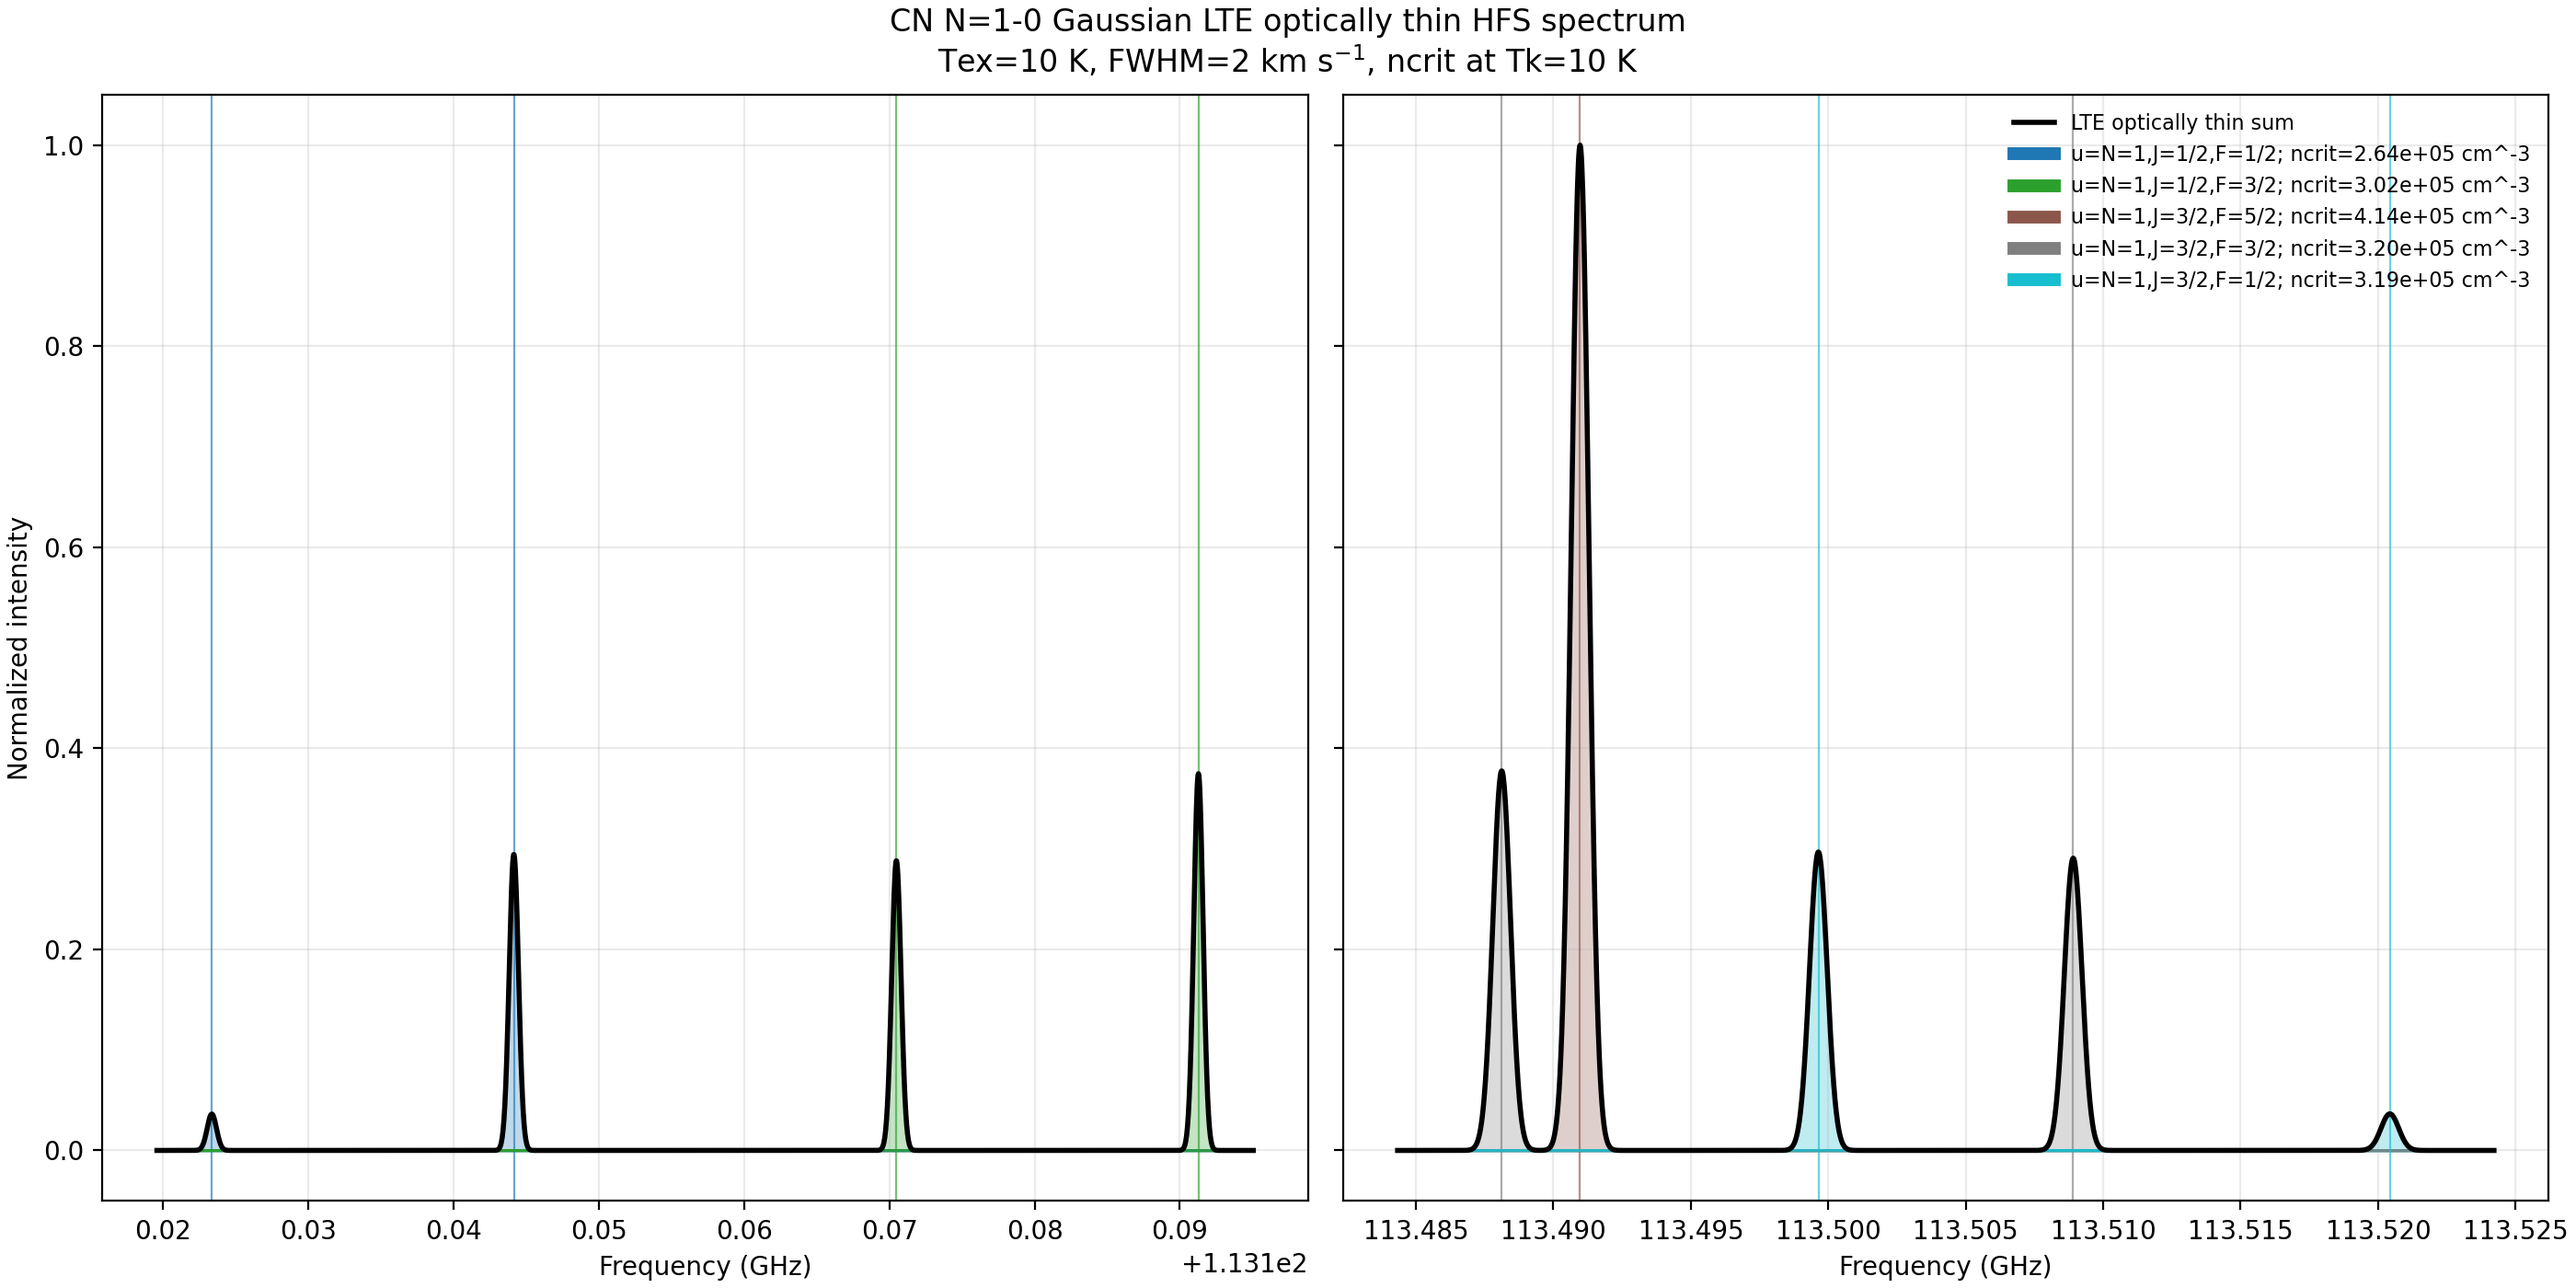
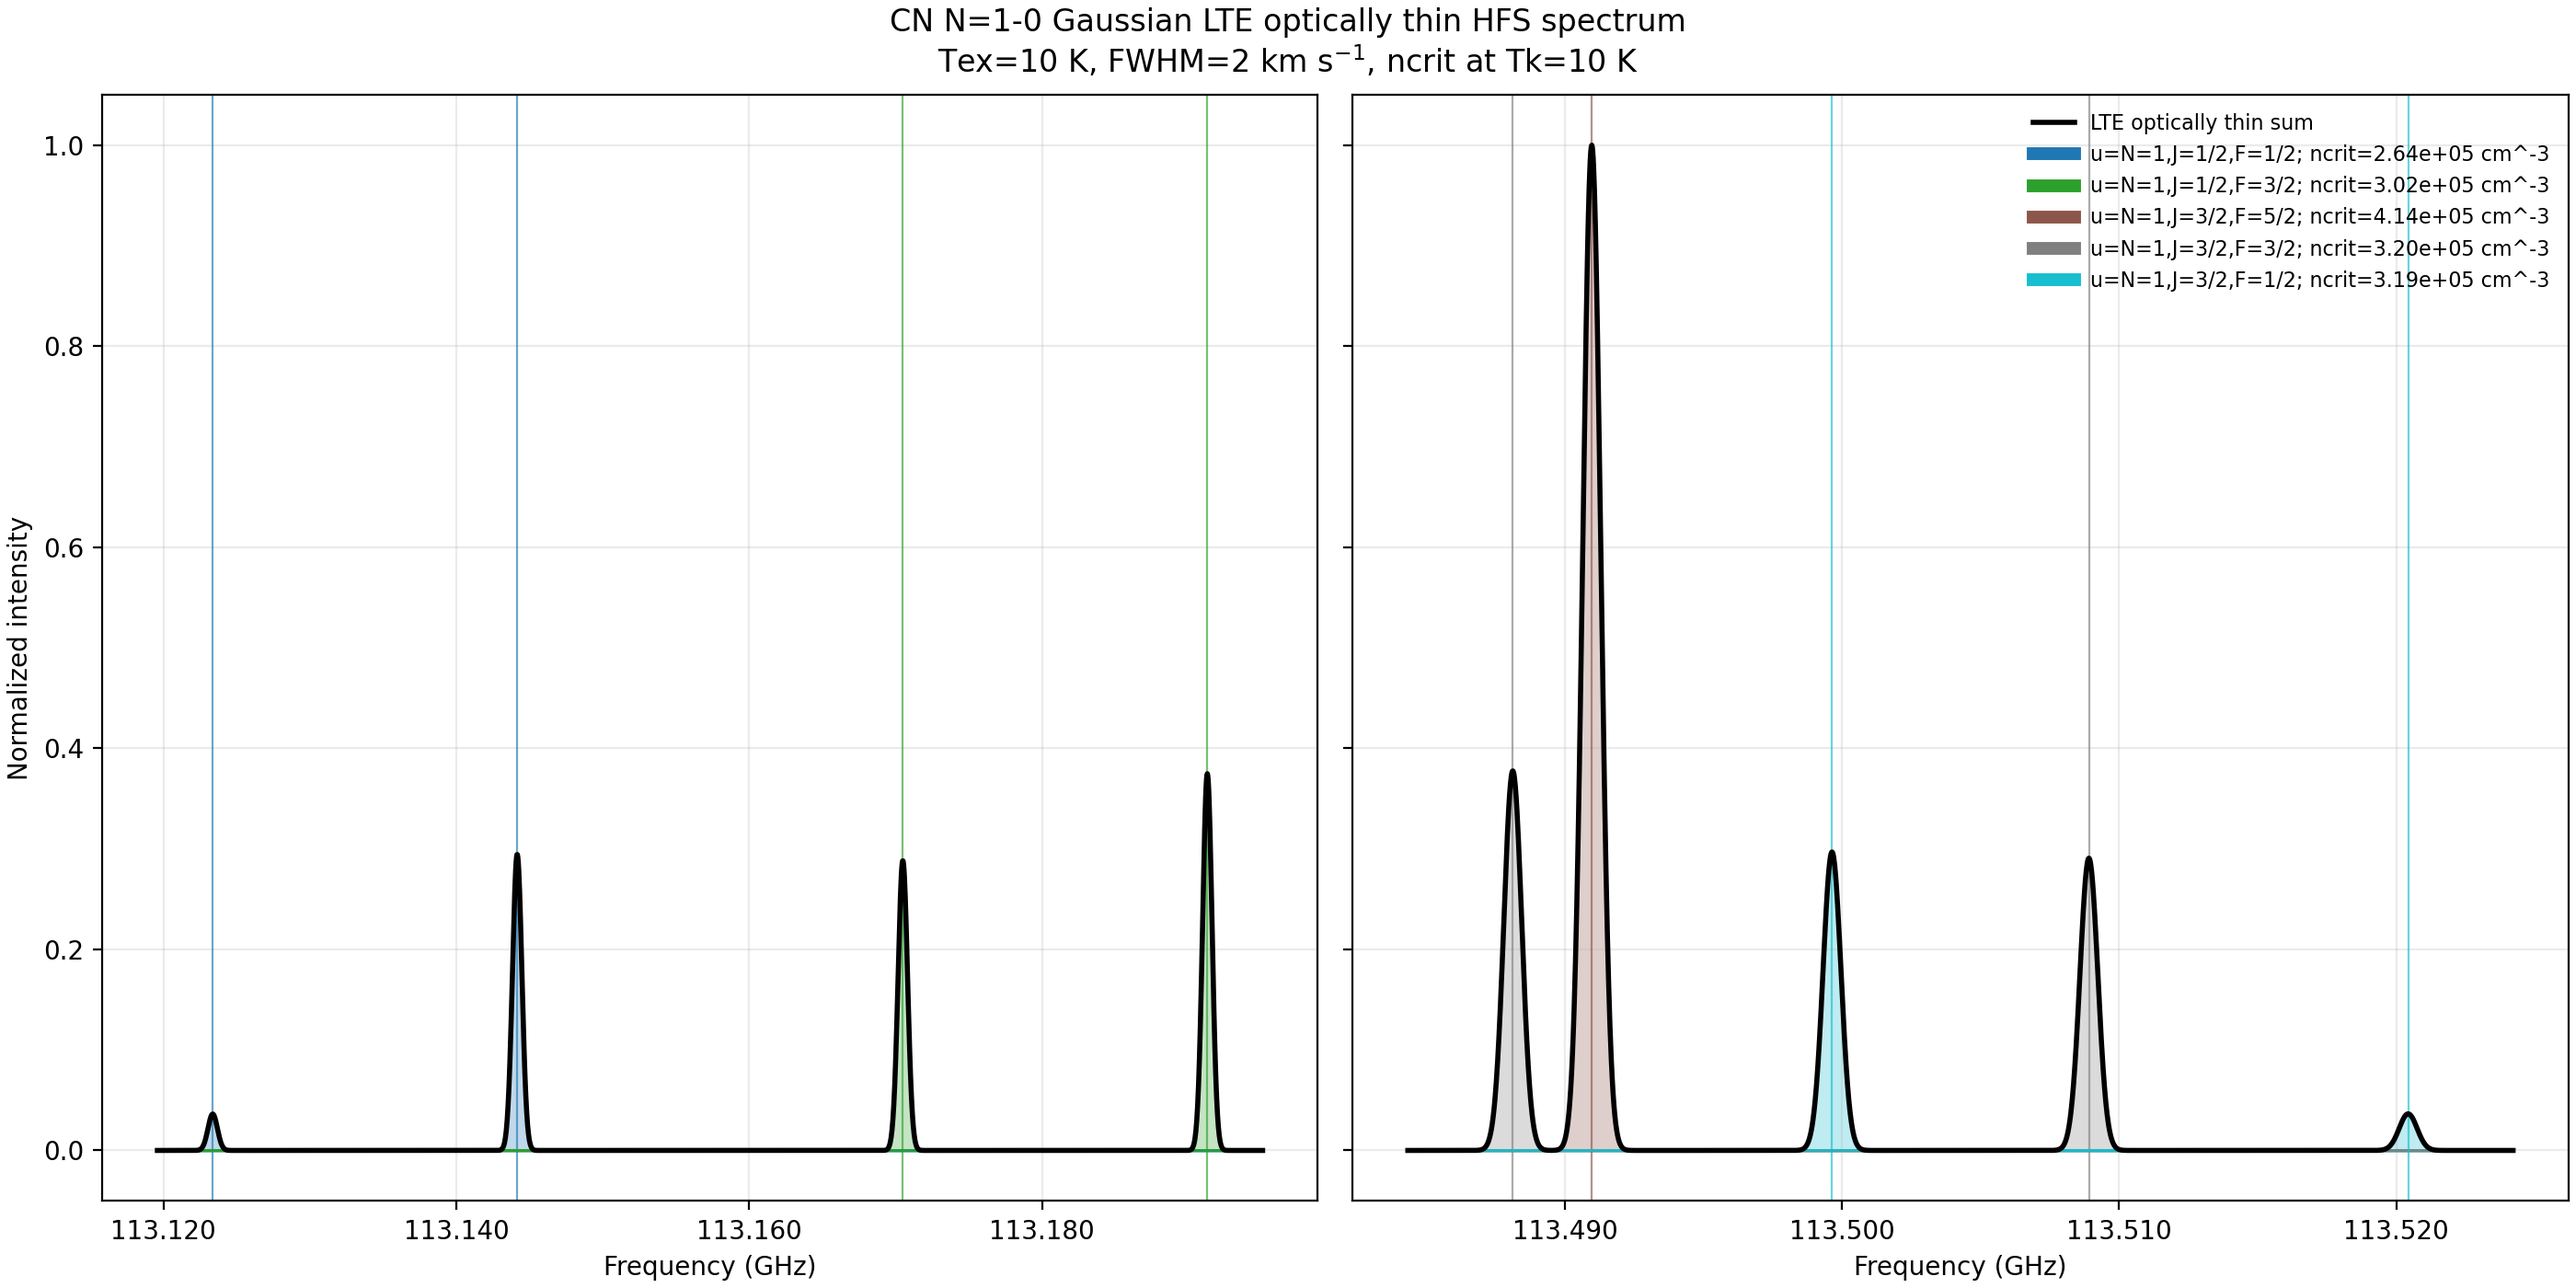
1. update CN hfs

diff --git a/cn_hfs_toy.py b/cn_hfs_toy.py
@@ -92,7 +92,7 @@ def _short_level_label(level):
     return level.label
 
 
-def cn_n1_0_demo():
+def cn_hfs_demo():
     molecule = load_hfs_molecule(CN_DATA, "CN")
     level_rows, _ = compute_hfs_ncrit(
         molecule,
@@ -102,16 +102,25 @@ def cn_n1_0_demo():
     )
     ncrit_by_upper = {row["upper_id"]: row for row in level_rows}
 
-    # Select the CN N=1 -> 0 hyperfine components and sort them by frequency.
+    for upper_N in (1, 2, 3):
+        _cn_transition_demo(upper_N, upper_N - 1, molecule, ncrit_by_upper)
+
+
+def _cn_transition_demo(upper_N, lower_N, molecule, ncrit_by_upper):
+    # Select one CN rotational ladder's hyperfine components and sort them by frequency.
     transitions = [
         transition
         for transition in molecule.radiative
-        if molecule.levels[transition.upper_id].qn.get("N") == 1
-        and molecule.levels[transition.lower_id].qn.get("N") == 0
+        if molecule.levels[transition.upper_id].qn.get("N") == upper_N
+        and molecule.levels[transition.lower_id].qn.get("N") == lower_N
     ]
     transitions.sort(key=lambda item: item.frequency_GHz)
 
-    print(f"\nCN N=1-0 HFS components at Tk={CN_DEMO_TK:g} K, partner={CN_DEMO_PARTNER}")
+    if not transitions:
+        print(f"\nCN N={upper_N}-{lower_N}: no matching HFS components in this file.")
+        return
+
+    print(f"\nCN N={upper_N}-{lower_N} HFS components at Tk={CN_DEMO_TK:g} K, partner={CN_DEMO_PARTNER}")
     print("freq_GHz  upper_id  lower_id  upper_level                  lower_level                  ncrit_cm-3")
     for transition in transitions:
         upper = molecule.levels[transition.upper_id]
@@ -126,11 +135,13 @@ def cn_n1_0_demo():
             f"{ncrit:10.3e}"
         )
 
-    _plot_cn_n1_0(transitions, molecule, ncrit_by_upper)
-    _plot_cn_n1_0_lte_spectrum(transitions, molecule, ncrit_by_upper)
+    stem = f"cn_n{upper_N}_{lower_N}"
+    title = f"CN N={upper_N}-{lower_N}"
+    _plot_cn_ncrit_hist(title, f"{stem}_ncrit_hist.png", transitions, molecule, ncrit_by_upper)
+    _plot_cn_lte_spectrum(title, f"{stem}_lte_spectrum_ncrit.png", transitions, molecule, ncrit_by_upper)
 
 
-def _plot_cn_n1_0(transitions, molecule, ncrit_by_upper):
+def _plot_cn_ncrit_hist(title, filename, transitions, molecule, ncrit_by_upper):
     cache_dir = BASE_DIR / ".plot_cache"
     cache_dir.mkdir(parents=True, exist_ok=True)
     os.environ.setdefault("MPLCONFIGDIR", str(cache_dir / "matplotlib"))
@@ -158,18 +169,18 @@ def _plot_cn_n1_0(transitions, molecule, ncrit_by_upper):
     bars = ax.bar(x, values, color="#4C78A8", edgecolor="#243B53", linewidth=0.7)
     ax.set_yscale("log")
     ax.set_ylabel(r"$n_{\rm crit}$ (cm$^{-3}$)")
-    ax.set_xlabel("CN N=1-0 hyperfine transition, sorted by frequency")
-    ax.set_title(f"CN N=1-0 HFS level-based critical densities at Tk={CN_DEMO_TK:g} K ({CN_DEMO_PARTNER})")
+    ax.set_xlabel(f"{title} hyperfine transition, sorted by frequency")
+    ax.set_title(f"{title} HFS level-based critical densities at Tk={CN_DEMO_TK:g} K ({CN_DEMO_PARTNER})")
     ax.set_xticks(x)
     ax.set_xticklabels(labels, rotation=65, ha="right", fontsize=8)
     ax.grid(axis="y", which="both", alpha=0.25)
     for bar, value in zip(bars, values):
         ax.text(bar.get_x() + bar.get_width() / 2, value * 1.05, f"{value:.1e}", ha="center", va="bottom", fontsize=8, rotation=90)
     fig.tight_layout()
-    out_path = OUTPUT_DIR / "cn_n1_0_ncrit_hist.png"
+    out_path = OUTPUT_DIR / filename
     fig.savefig(out_path, dpi=200)
     plt.close(fig)
-    print(f"\nSaved CN N=1-0 ncrit histogram: {out_path}")
+    print(f"\nSaved {title} ncrit histogram: {out_path}")
 
 
 def _lte_component_weight(transition, molecule):
@@ -193,7 +204,7 @@ def _split_by_largest_frequency_gap(transitions):
     return [transitions]
 
 
-def _plot_cn_n1_0_lte_spectrum(transitions, molecule, ncrit_by_upper):
+def _plot_cn_lte_spectrum(title, filename, transitions, molecule, ncrit_by_upper):
     if not transitions:
         return
     cache_dir = BASE_DIR / ".plot_cache"
@@ -204,6 +215,7 @@ def _plot_cn_n1_0_lte_spectrum(transitions, molecule, ncrit_by_upper):
 
     matplotlib.use("Agg")
     import matplotlib.pyplot as plt
+    from matplotlib.ticker import FormatStrFormatter, MaxNLocator
 
     OUTPUT_DIR.mkdir(parents=True, exist_ok=True)
     weights = np.array([_lte_component_weight(transition, molecule) for transition in transitions])
@@ -241,6 +253,8 @@ def _plot_cn_n1_0_lte_spectrum(transitions, molecule, ncrit_by_upper):
             ax.axvline(center, color=color, lw=0.8, alpha=0.65)
         ax.plot(frequency, total / norm, color="black", lw=2.0, label="LTE optically thin sum")
         ax.set_xlabel("Frequency (GHz)")
+        ax.xaxis.set_major_locator(MaxNLocator(nbins=5))
+        ax.xaxis.set_major_formatter(FormatStrFormatter("%.3f"))
         ax.grid(alpha=0.25)
 
     handles = [plt.Line2D([0], [0], color="black", lw=2.0, label="LTE optically thin sum")]
@@ -259,17 +273,17 @@ def _plot_cn_n1_0_lte_spectrum(transitions, molecule, ncrit_by_upper):
     axes[-1].legend(handles=handles, fontsize=8, loc="upper right", frameon=False)
     axes[0].set_ylabel("Normalized intensity")
     fig.suptitle(
-        f"CN N=1-0 Gaussian LTE optically thin HFS spectrum\n"
+        f"{title} Gaussian LTE optically thin HFS spectrum\n"
         f"Tex={LTE_TEX:g} K, FWHM={GAUSSIAN_FWHM_KMS:g} km s$^{{-1}}$, ncrit at Tk={CN_DEMO_TK:g} K"
     )
-    out_path = OUTPUT_DIR / "cn_n1_0_lte_spectrum_ncrit.png"
+    out_path = OUTPUT_DIR / filename
     fig.savefig(out_path, dpi=200)
     plt.close(fig)
-    print(f"\nSaved CN N=1-0 LTE HFS spectrum: {out_path}")
+    print(f"\nSaved {title} LTE HFS spectrum: {out_path}")
 
 
 if __name__ == "__main__":
     test_branching_and_collision_sums()
     test_detailed_balance_reconstructs_upward_rate()
-    cn_n1_0_demo()
+    cn_hfs_demo()
     print("toy HFS tests passed")

diff --git a/critical_density.py b/critical_density.py
@@ -243,6 +243,17 @@ def _transition_from_request(data, j_low=None, transition_index=None, upper=None
     return _transition_from_request(data, upper=legacy_upper, lower=legacy_lower)  # Resolve the legacy simple-rotor transition.
 
 
+def _clean_level_label(level):  # Return a compact quantum-number label for verbose reports.
+    label = level.label.strip()  # Remove padding spaces from LAMDA labels such as HCN " 01 ".
+    return label if label else f"level {level.index}"  # Fall back to the level number if the file label is empty.
+
+
+def _transition_label(data, transition):  # Build an unambiguous transition description for users.
+    upper_label = _clean_level_label(data.levels[transition.upper])  # Read the upper level quantum label.
+    lower_label = _clean_level_label(data.levels[transition.lower])  # Read the lower level quantum label.
+    return f"{upper_label}->{lower_label} (LAMDA levels {transition.upper}->{transition.lower})"  # Include both physics label and file indices.
+
+
 def ncrit(molecule, J_low=None, T=None, op_ratio=3.0, verbose=False, transition_index=None, upper=None, lower=None):  # Calculate Shirley nthin,nobg_crit.
     if T is None:  # Preserve a clear error when kinetic temperature is omitted.
         raise ValueError("T must be supplied in Kelvin.")  # Tkin is needed for interpolation and detailed balance.
@@ -253,7 +264,7 @@ def ncrit(molecule, J_low=None, T=None, op_ratio=3.0, verbose=False, transition_
         raise ValueError(f"No collisional depopulation rates found for upper level {transition.upper}.")  # Report unusable transition.
     value = transition.aul / gamma_total  # Shirley equation (4): ncrit = A_jk / sum_i gamma_ji.
     if verbose:  # Optionally print a compact report.
-        print(f"{molecule} transition {transition.upper}->{transition.lower}")  # Identify the transition by LAMDA levels.
+        print(f"{molecule} transition {_transition_label(data, transition)}")  # Identify the transition by quantum labels and LAMDA levels.
         print(f"Tkin = {float(T):.3g} K")  # Report kinetic temperature.
         print(f"ortho/para H2 ratio = {float(op_ratio):.3g}")  # Report the requested o/p ratio.
         print(f"Aul = {transition.aul:.6e} s^-1")  # Report Einstein A.

diff --git a/README.md b/README.md
@@ -56,6 +56,7 @@ ncrit(molecule, J_low, Tkin, op_ratio, verbose)
 ```
 
 For simple linear rotors, `J_low=0` means `J=1-0`, `J_low=1` means `J=2-1`, and so on.
+Verbose output reports both the quantum-number transition and the underlying LAMDA level indices; for example, `2->1 (LAMDA levels 3->2)` is the `J=2-1` line.
 
 For spectra that are not a simple one-level-per-J ladder, such as CN, select the LAMDA radiative transition explicitly:
 
